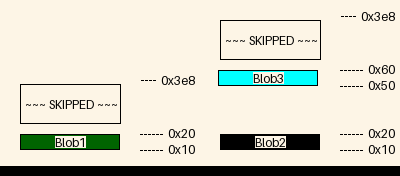
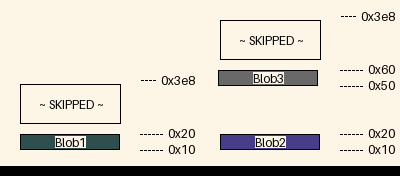
removed some tildas from void region graphic

diff --git a/mm/image.py b/mm/image.py
@@ -176,7 +176,7 @@ class VoidRegionImage():
 
     def __init__(self):
 
-        self.name: str = "~~~ SKIPPED ~~~"
+        self.name: str = "~ SKIPPED ~"
         self.img: PIL.Image.Image = None
         self.size_as_hex: str = 40
 

diff --git a/doc/example/tests.test_docs_three_maps.md b/doc/example/tests.test_docs_three_maps.md
@@ -1,8 +1,8 @@
 ![memory map diagram](tests.test_docs_three_maps_cropped.png)
 |name|origin|size|free Space|collisions
 |:-|:-|:-|:-|:-|
-|<span style='color:olive'>Blob4</span>|0x10|0x150|-0x40|{'Blob5': '0x120'}|
-|<span style='color:slateblue'>Blob5</span>|0x120|0x70|0x258|{'Blob4': '0x120'}|
-|<span style='color:gray'>Blob2</span>|0x10|0x10|0x30|{}|
-|<span style='color:lightskyblue'>Blob3</span>|0x50|0x10|0x388|{}|
-|<span style='color:limegreen'>Blob1</span>|0x10|0x10|0x3c8|{}|
+|<span style='color:dimgrey'>Blob4</span>|0x10|0x150|-0x40|{'Blob5': '0x120'}|
+|<span style='color:dodgerblue'>Blob5</span>|0x120|0x70|0x258|{'Blob4': '0x120'}|
+|<span style='color:purple'>Blob2</span>|0x10|0x10|0x30|{}|
+|<span style='color:mediumaquamarine'>Blob3</span>|0x50|0x10|0x388|{}|
+|<span style='color:mediumpurple'>Blob1</span>|0x10|0x10|0x3c8|{}|

diff --git a/doc/example/tests.test_docs_collisions.md b/doc/example/tests.test_docs_collisions.md
@@ -1,6 +1,6 @@
 ![memory map diagram](tests.test_docs_collisions_cropped.png)
 |name|origin|size|free Space|collisions
 |:-|:-|:-|:-|:-|
-|<span style='color:springgreen'>kernel</span>|0x10|0x60|-0x20|{'rootfs': '0x50'}|
-|<span style='color:chartreuse'>rootfs</span>|0x50|0x50|-0x10|{'kernel': '0x50', 'dtb': '0x90'}|
-|<span style='color:skyblue'>dtb</span>|0x90|0x30|0x328|{'rootfs': '0x90'}|
+|<span style='color:deepskyblue'>kernel</span>|0x10|0x60|-0x20|{'rootfs': '0x50'}|
+|<span style='color:mediumpurple'>rootfs</span>|0x50|0x50|-0x10|{'kernel': '0x50', 'dtb': '0x90'}|
+|<span style='color:darkcyan'>dtb</span>|0x90|0x30|0x328|{'rootfs': '0x90'}|

diff --git a/doc/example/tests.test_docs_normal.md b/doc/example/tests.test_docs_normal.md
@@ -1,6 +1,6 @@
 ![memory map diagram](tests.test_docs_normal_cropped.png)
 |name|origin|size|free Space|collisions
 |:-|:-|:-|:-|:-|
-|<span style='color:dodgerblue'>kernel</span>|0x10|0x30|0x10|{}|
-|<span style='color:maroon'>rootfs</span>|0x50|0x30|0x110|{}|
-|<span style='color:dodgerblue'>dtb</span>|0x190|0x30|0x228|{}|
+|<span style='color:blue'>kernel</span>|0x10|0x30|0x10|{}|
+|<span style='color:skyblue'>rootfs</span>|0x50|0x30|0x110|{}|
+|<span style='color:lightslategrey'>dtb</span>|0x190|0x30|0x228|{}|

diff --git a/doc/example/tests.test_docs_two_maps.md b/doc/example/tests.test_docs_two_maps.md
@@ -1,6 +1,6 @@
 ![memory map diagram](tests.test_docs_two_maps_cropped.png)
 |name|origin|size|free Space|collisions
 |:-|:-|:-|:-|:-|
-|<span style='color:black'>Blob2</span>|0x10|0x10|0x30|{}|
-|<span style='color:aqua'>Blob3</span>|0x50|0x10|0x388|{}|
-|<span style='color:darkgreen'>Blob1</span>|0x10|0x10|0x3c8|{}|
+|<span style='color:darkslateblue'>Blob2</span>|0x10|0x10|0x30|{}|
+|<span style='color:dimgrey'>Blob3</span>|0x50|0x10|0x388|{}|
+|<span style='color:darkslategray'>Blob1</span>|0x10|0x10|0x3c8|{}|
